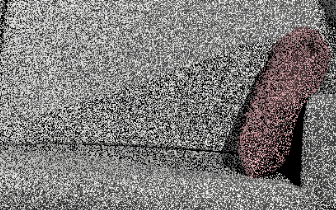
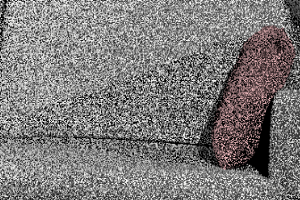
edited map

diff --git a/ReSTIR/Passes/InitLightPlusTemporalPass.cpp b/ReSTIR/Passes/InitLightPlusTemporalPass.cpp
@@ -25,7 +25,7 @@ bool InitLightPlusTemporalPass::initialize(RenderContext* pRenderContext, Resour
 	mpResManager->requestTextureResource(ResourceManager::kOutputChannel);
 	mpResManager->requestTextureResource(ResourceManager::kEnvironmentMap);
 
-	mpResManager->updateEnvironmentMap("Data/BackgroundImages/noise.png");
+	// mpResManager->updateEnvironmentMap("Data/BackgroundImages/MonValley_G_DirtRoad_3k.hdr");
 	mpResManager->setDefaultSceneName("Data/Scenes/pink_room/pink_room.fscene");
 
 	// Create our wrapper around a ray tracing pass.  Tell it where our ray generation shader and ray-specific shaders are

diff --git a/enc_temp_folder/3f3a5b44791c351a374aae78744dea3/ReSTIR.cpp b/enc_temp_folder/3f3a5b44791c351a374aae78744dea3/ReSTIR.cpp
@@ -30,7 +30,7 @@ int WINAPI WinMain(_In_ HINSTANCE hInstance, _In_opt_ HINSTANCE hPrevInstance, _
 	// Toggle
 	bool temporalReuse = true;
 	bool spatialReuse = true;
-	bool globalIllum = true;
+	bool globalIllum = false;
 
 	// Create our rendering pipeline
 	RenderingPipeline *pipeline = new RenderingPipeline();
